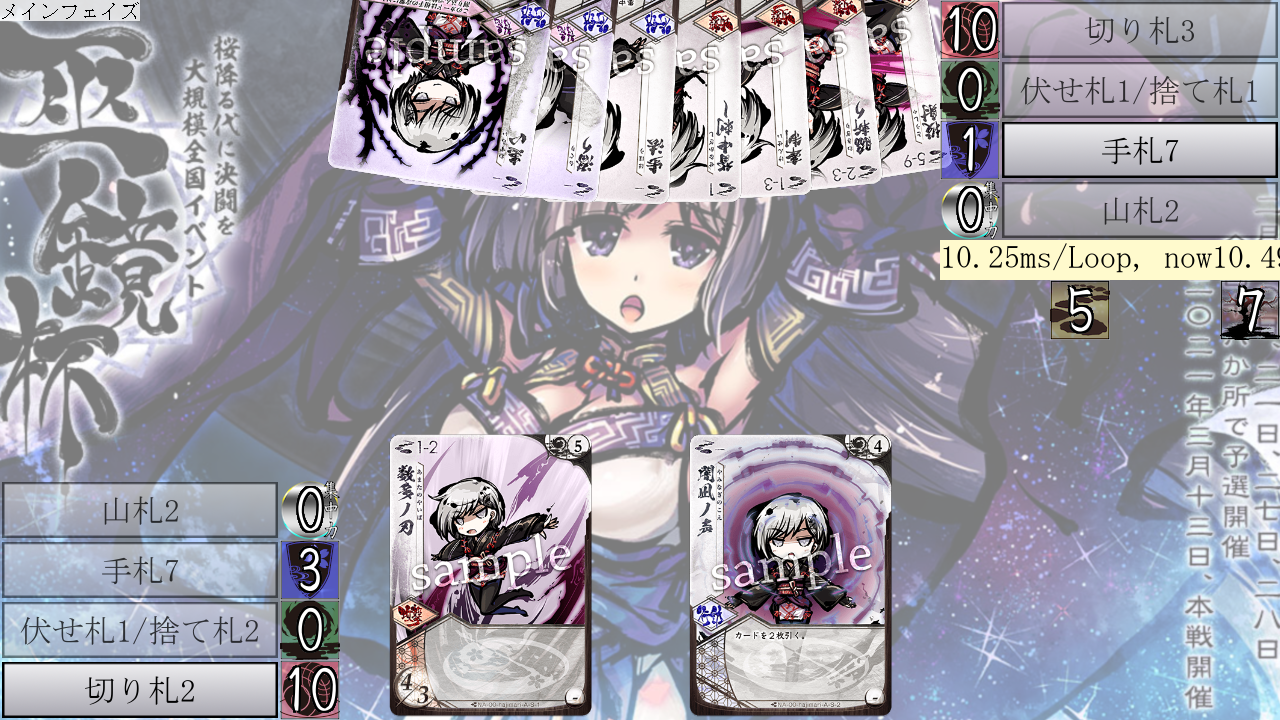
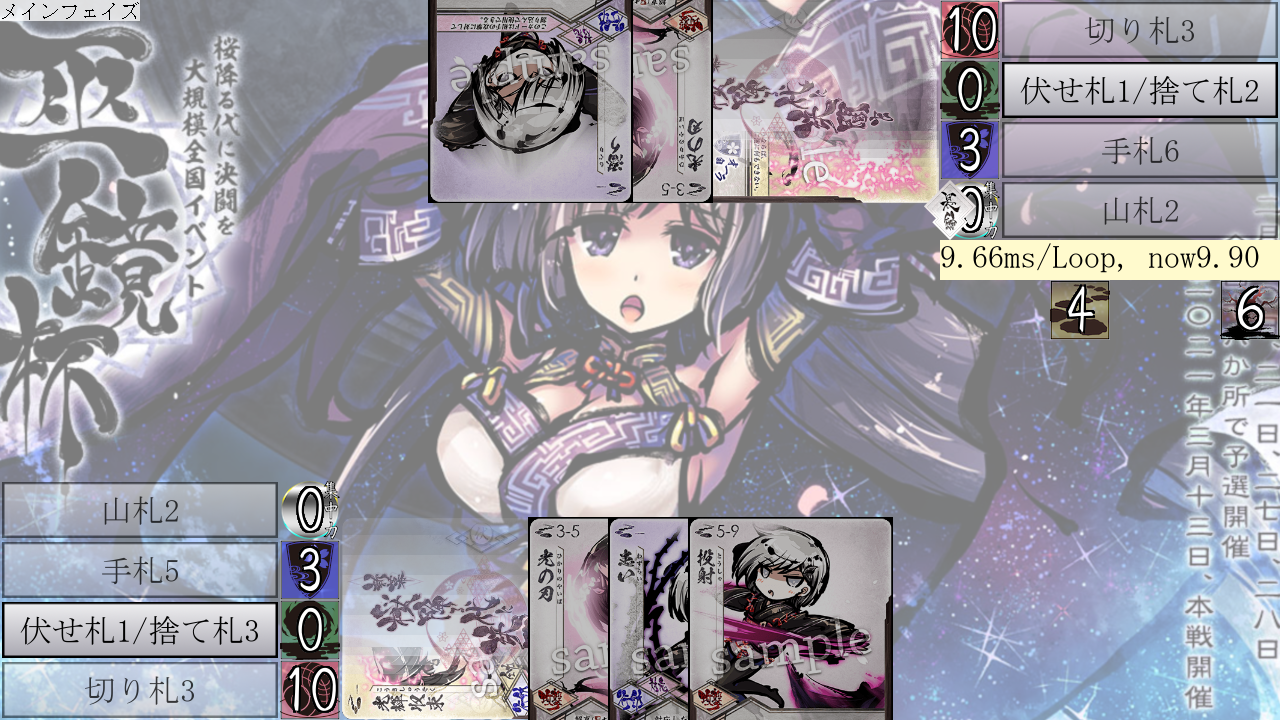
J247:カードの消費処理を一元化する為にHuda.discardを作成

diff --git a/mod/card.py b/mod/card.py
@@ -7,7 +7,6 @@ from mod.const import CT_HUTEI, CT_KOUGEKI, draw_aiharasuu, UC_MAAI, TC_SUTEHUDA
 from mod.delivery import Delivery
 from mod.popup_message import popup_message
 from mod.moderator import moderator
-from mod.req.req_ouka import ReqOuka
 
 BoolDI = Callable[[Delivery, int], bool]
 KoukaDI = Callable[[Delivery, int], None]
@@ -100,8 +99,9 @@ class Koudou(Card):
 
     def kaiketu(self, delivery: Delivery, hoyuusya: int, huda: Any | None = None) -> None:
         self.kouka(delivery, hoyuusya)
-        if huda:
-            delivery.send_huda_to_ryouiki(huda=huda, is_mine=True, taba_code=TC_SUTEHUDA)
+        from mod.huda import Huda
+        if isinstance(huda, Huda):
+            huda.discard()
         self.close(hoyuusya=hoyuusya)
 
 class Damage(Card):

diff --git a/mod/huda.py b/mod/huda.py
@@ -4,7 +4,7 @@ from pygame.math import Vector2
 from math import sin, cos, radians
 from typing import Callable
 
-from mod.const import screen, nie, BRIGHT, USAGE_UNUSED
+from mod.const import screen, nie, BRIGHT, USAGE_UNUSED, TC_SUTEHUDA
 from mod.youso import Youso
 from mod.delivery import Delivery
 from mod.kihondousa import pass_koudou
@@ -66,6 +66,9 @@ class Huda(Youso):
 
     def can_play(self) -> bool:
         return self.card.can_play(delivery=self.delivery, hoyuusya=self.hoyuusya)
+    
+    def discard(self) -> None:
+        self.delivery.send_huda_to_ryouiki(huda=self, is_mine=True, taba_code=TC_SUTEHUDA)
 
     @property
     def img_rz_topleft(self) -> Vector2:

diff --git a/mod/ol/play_kougeki.py b/mod/ol/play_kougeki.py
@@ -61,7 +61,7 @@ class PlayKougeki():
 
     def _discard_source(self) -> None:
         if self.source_huda:
-            self.delivery.send_huda_to_ryouiki(huda=self.source_huda, is_mine=True, taba_code=TC_SUTEHUDA)
+            self.source_huda.discard()
         moderator.pop()
 
 # compatible_with(, OverLayer)
